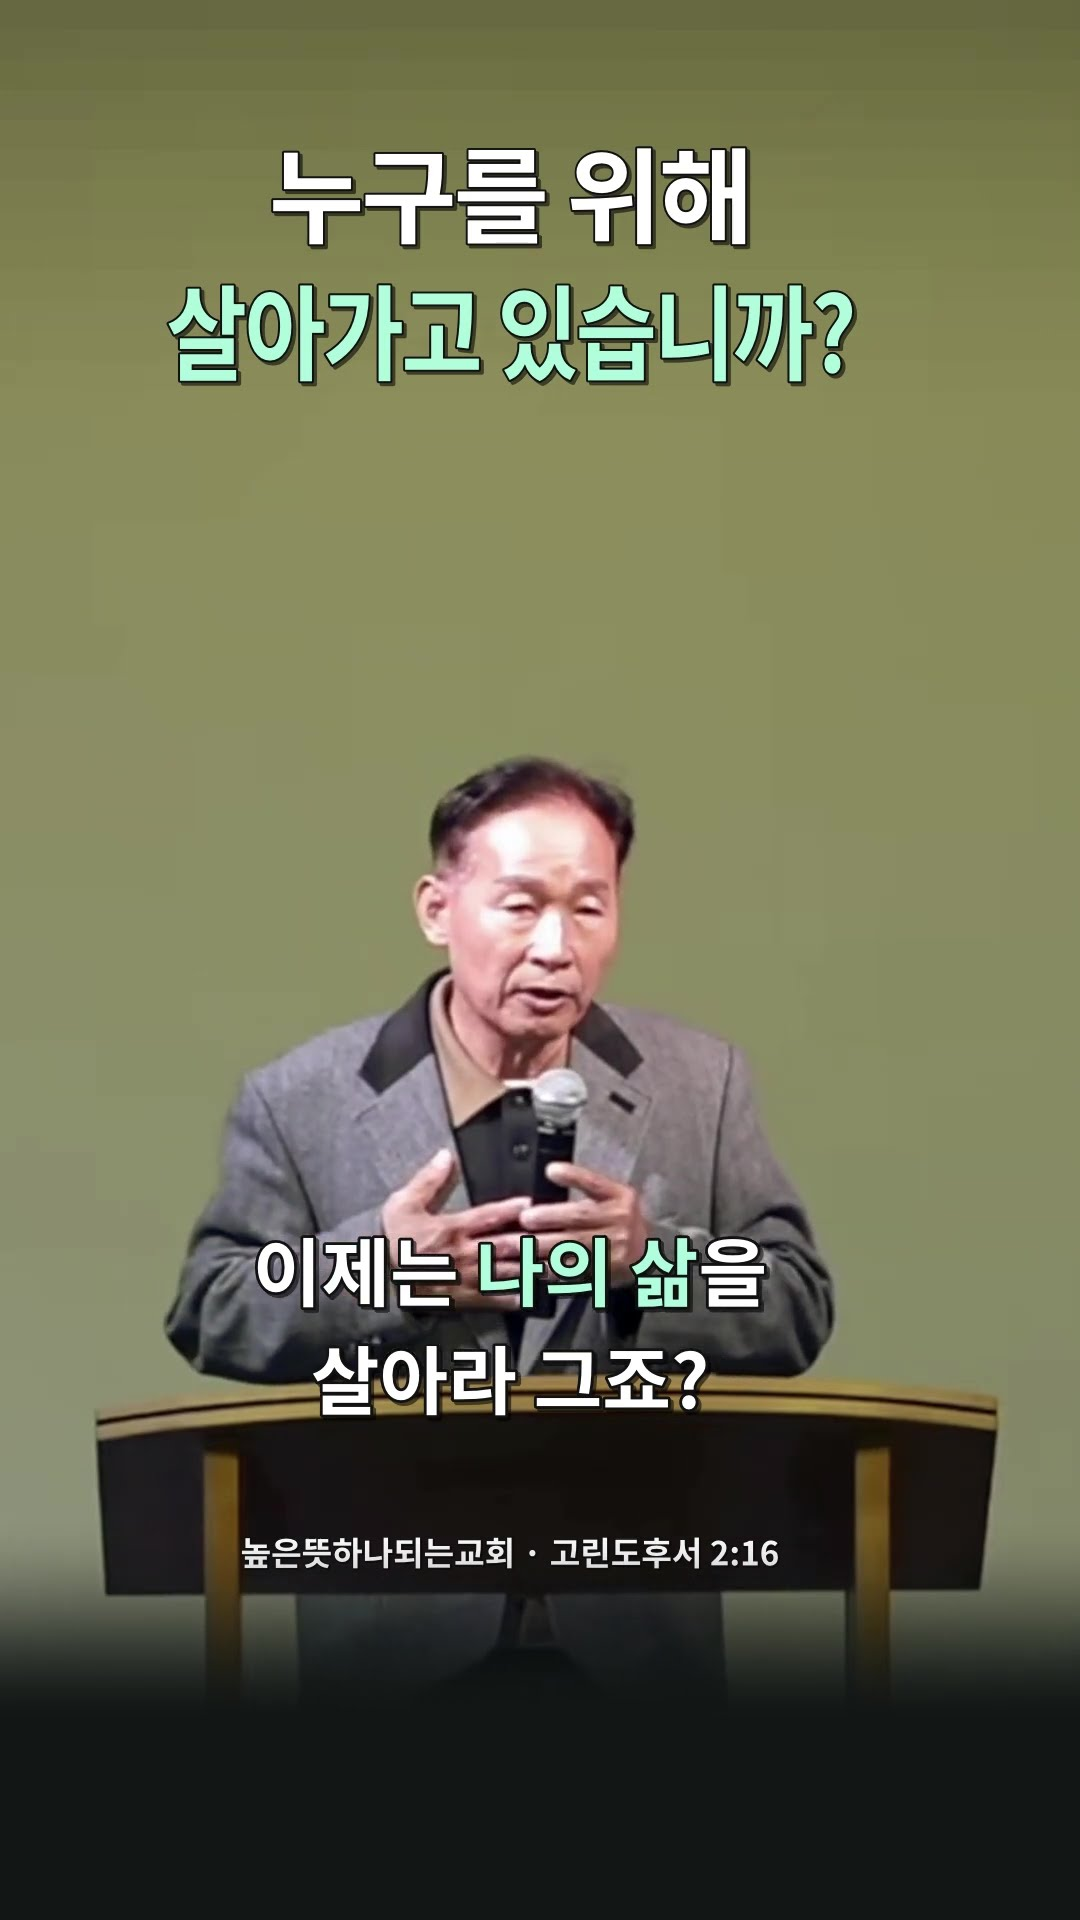
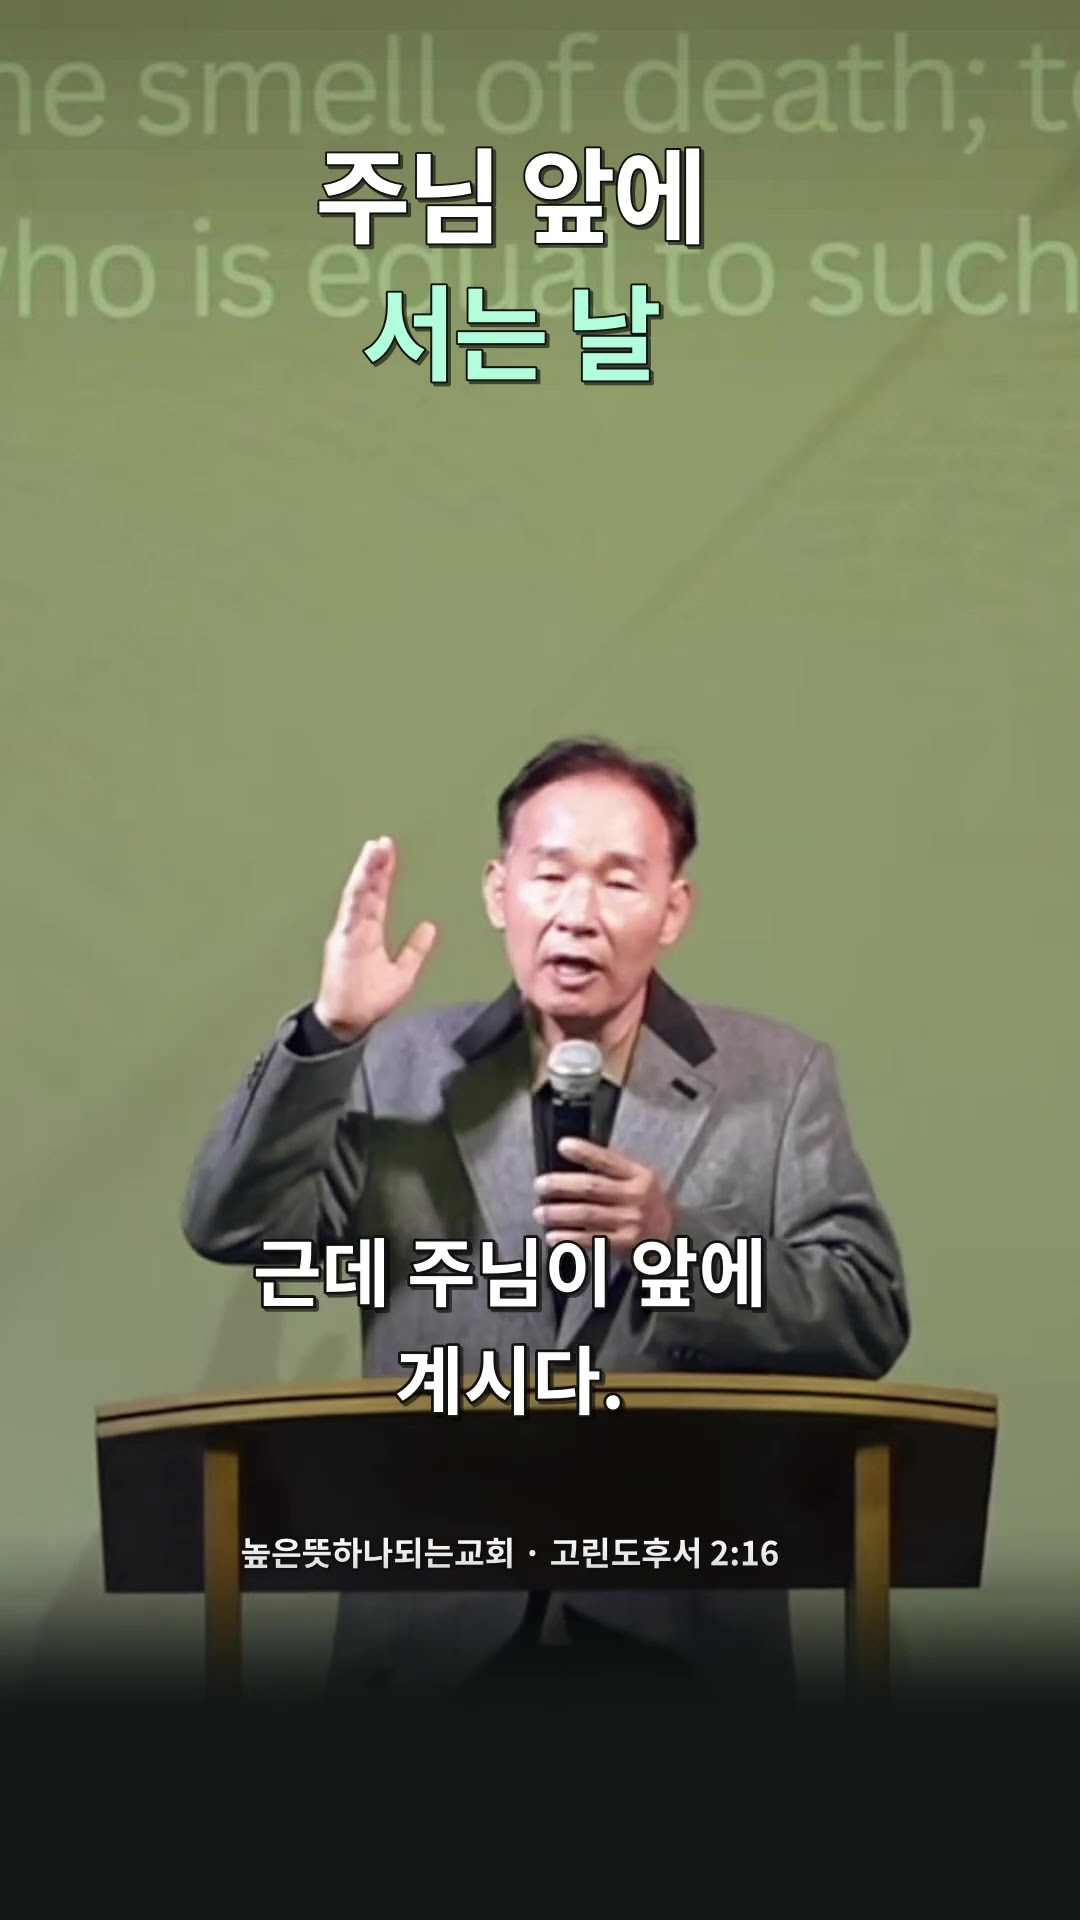
설교 영상 자동 갱신

diff --git a/index.html b/index.html
@@ -158,14 +158,14 @@
         </div>
         <div class="latest latest-short">
 <!-- shorts:start (매주 자동 갱신 — .github/scripts/update_sermon.py) -->
-          <a class="thumb thumb-short" href="https://www.youtube.com/shorts/6rkZr1cTDSA" target="_blank" rel="noopener" aria-label="설교 숏츠 보기 (유튜브)">
-            <img class="thumb-img" src="images/shorts-thumb.jpg?v=6rkZr1cTDSA" alt="" loading="lazy" onload="this.parentNode.classList.add('has-img')" onerror="this.remove()">
+          <a class="thumb thumb-short" href="https://www.youtube.com/shorts/JWVOnwoT25o" target="_blank" rel="noopener" aria-label="설교 숏츠 보기 (유튜브)">
+            <img class="thumb-img" src="images/shorts-thumb.jpg?v=JWVOnwoT25o" alt="" loading="lazy" onload="this.parentNode.classList.add('has-img')" onerror="this.remove()">
             <span class="thumb-date">1분 메시지</span>
-            <strong>누구를 위해 살아가고 있습니까?</strong>
+            <strong>주님 앞에 서는 날</strong>
             <span class="thumb-meta">높은뜻 하나되는 교회</span>
             <span class="play" aria-hidden="true"><svg width="22" height="22" viewBox="0 0 24 24"><path d="M8 5v14l11-7z" fill="currentColor"/></svg></span>
           </a>
-          <h2 class="latest-title">[1분 메시지] 누구를 위해 살아가고 있습니까?</h2>
+          <h2 class="latest-title">[1분 메시지] 주님 앞에 서는 날</h2>
 <!-- shorts:end -->
           <div class="latest-btns"><a class="more more-pill" href="https://www.youtube.com/@Godwillhanachurch/shorts" target="_blank" rel="noopener">1분 메시지 더보기</a></div>
         </div>
